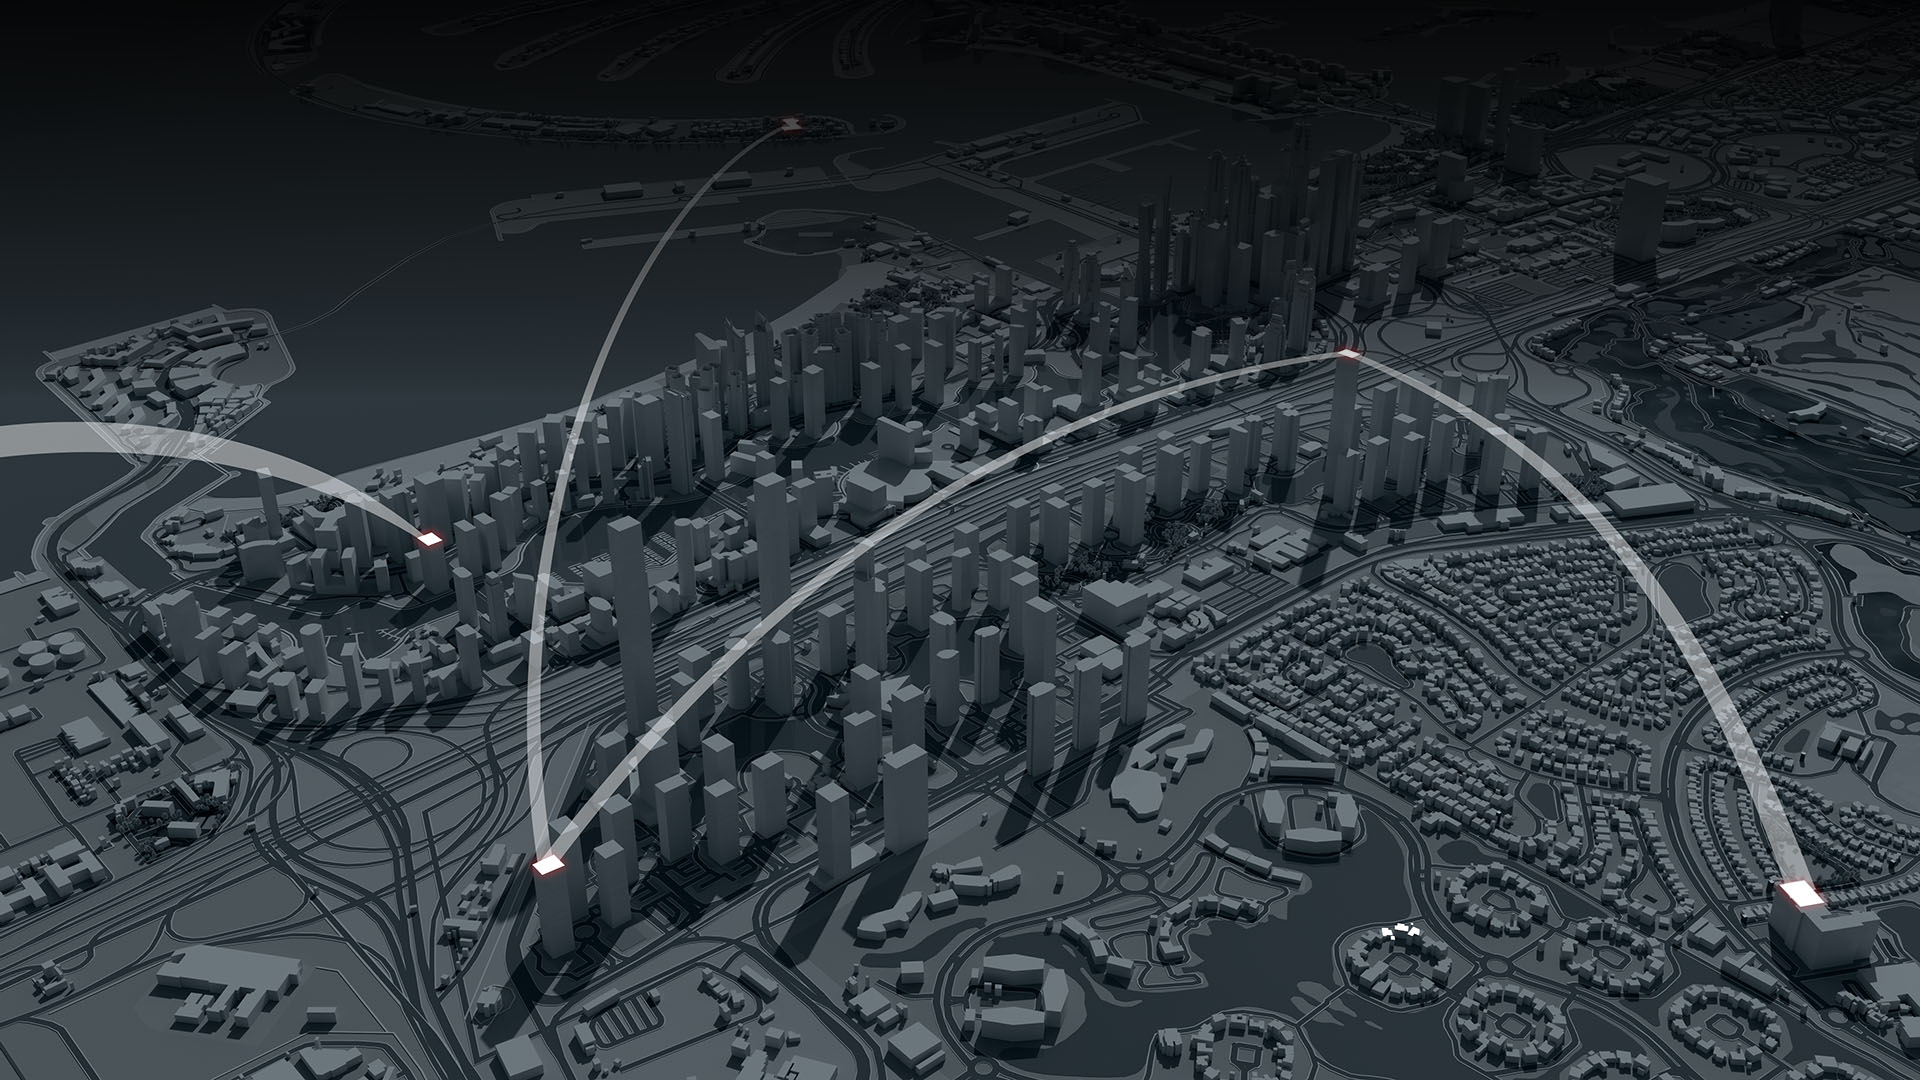
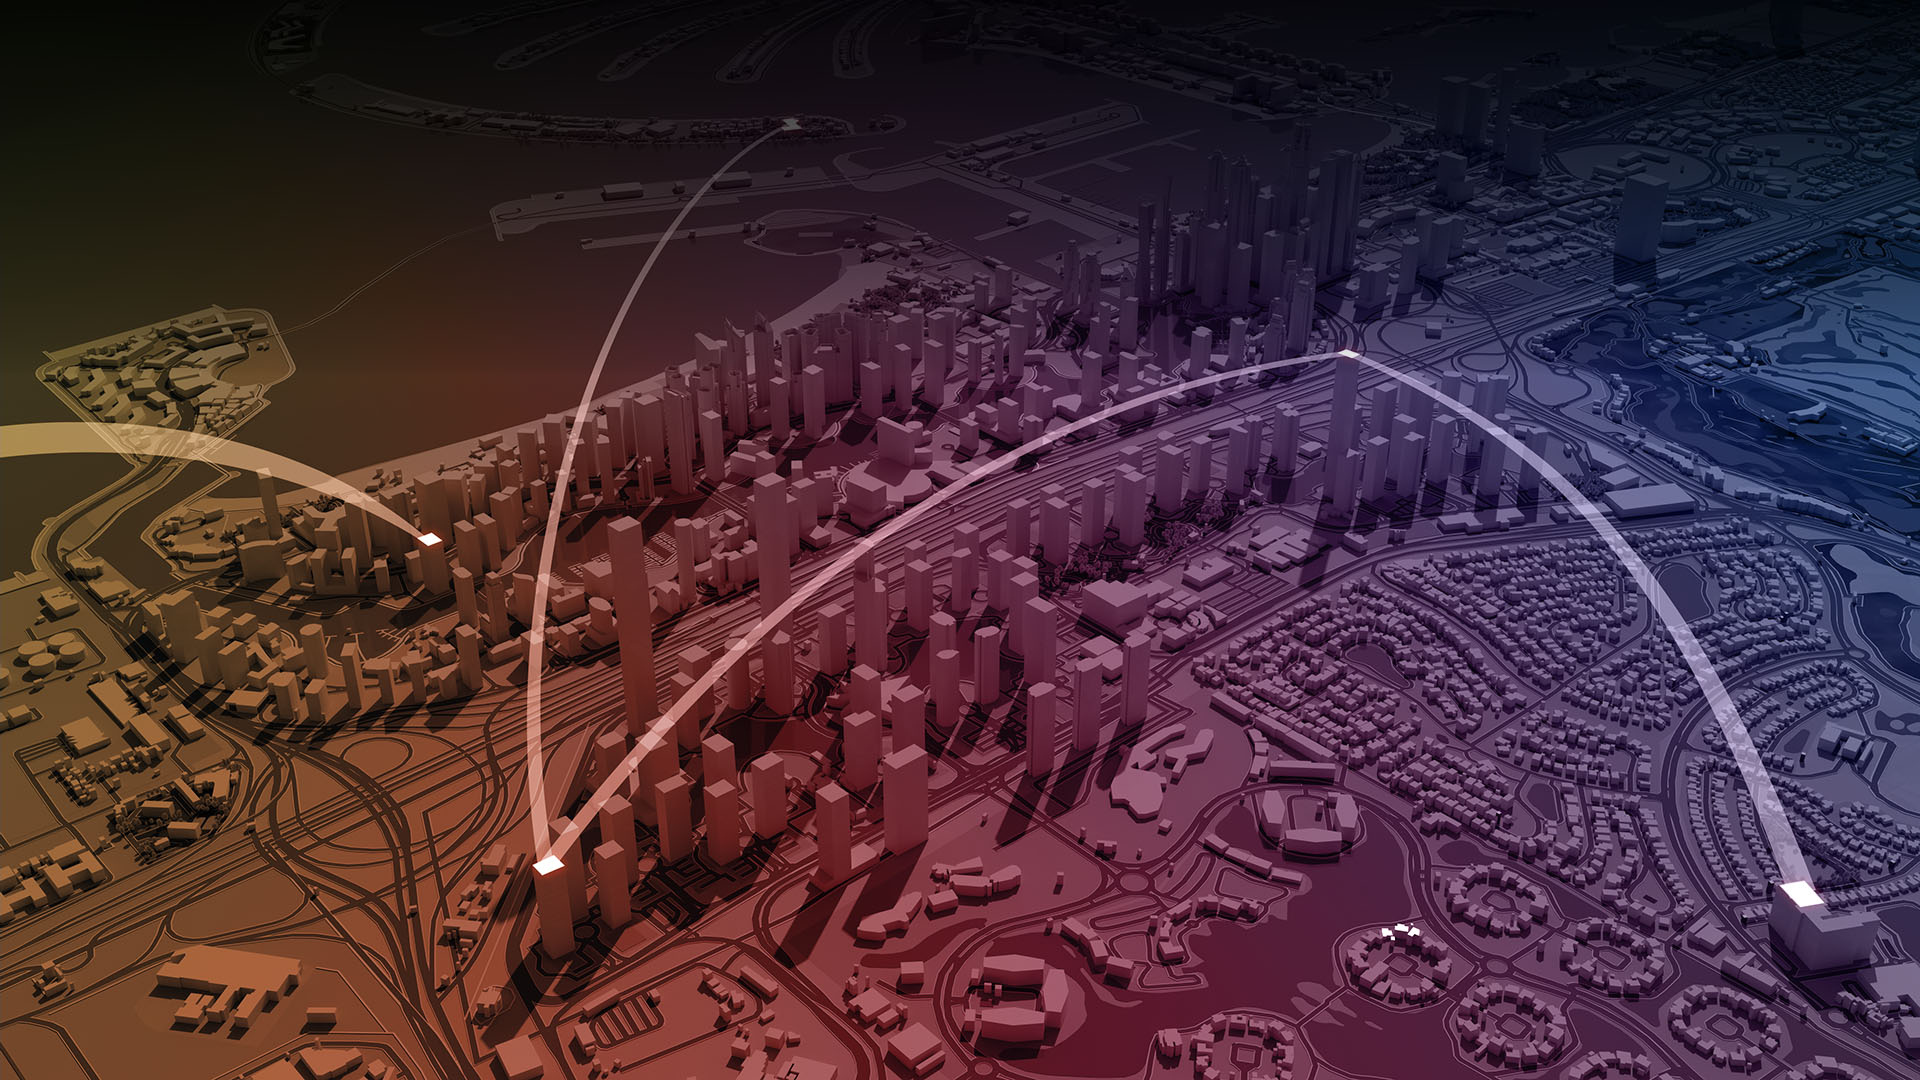
Flight Control Technology Slide Added

diff --git a/app/components/technology/control-hero.tsx b/app/components/technology/control-hero.tsx
@@ -1,22 +1,66 @@
 "use client";
 import { Container } from "react-bootstrap";
+import AIIcon from "./ai-icon";
+import ControlIcon from "./control-icon";
 
 export default function ControlTechnologyHero() {
   return (
     <Container
       id="control"
-      className="safety-section d-flex flex-column justify-content-center align-items-center text-center text-white p-4 pb-5 bg-secondary"
+      className="control-section d-flex flex-column justify-content-center align-items-center text-center text-white p-4 pb-5 bg-secondary"
       fluid
     >
       <div className="p-5 section-header text-center">
         <div className="lead">CLEAR</div>
         <h2>FLIGHT CONTROL</h2>
         <p className="pb-3">
-          The Artificial intelligence dramatically reduces the chance of
-          emergency situations, but the safety is most important for us.
+          We are developing a complete flight management system that is designed
+          specifically for automated aircraft and takes into account their
+          peculiarities. We ensure integration of drones into the city&apos;s
+          transportation life.
         </p>
       </div>
-      <Container className="ai-container pb-5 d-flex flex-row gap-3 justify-content-center align-items-center flex-wrap"></Container>
+      <Container className="ai-container pb-5 d-flex flex-row gap-3 justify-content-center align-items-center flex-wrap">
+        <ControlIcon icon="file-bar-graph">
+          <strong>AIRTRAIL</strong>
+          <br />
+          Universal protocol for realtime information exchange from aboard
+          automated aircrafts.
+        </ControlIcon>
+
+        <ControlIcon icon="radar">
+          <strong>REALTIME MONITORING</strong>
+          <br />
+          Real-time flight tracking of all aircraft, taking into account route
+          and model parameters.
+        </ControlIcon>
+
+        <ControlIcon icon="sign-turn-right">
+          <strong>SMART ROUTE PLANNING</strong>
+          <br />
+          Automatic terrain-aware planning of non-overlapping routes.
+        </ControlIcon>
+
+        <ControlIcon icon="database-check">
+          <strong>FULL TELEMENTRY STORAGE</strong>
+          <br />
+          Storage of all flight telemetry and marshrouts for later analysis.
+        </ControlIcon>
+
+        <ControlIcon icon="phone">
+          <strong>CLIENT APPS</strong>
+          <br />
+          Client applications for aero taxi and drone-assisted delivery in the
+          city and coyntryside.
+        </ControlIcon>
+
+        <ControlIcon icon="megaphone">
+          <strong>EMERGENCY PREDICTION</strong>
+          <br />
+          Predicting and solving emergency situations in real time, to maximize
+          safety.
+        </ControlIcon>
+      </Container>
     </Container>
   );
 }

diff --git a/app/globals.scss b/app/globals.scss
@@ -630,6 +630,15 @@ h6, .h6, h5, .h5, h4, .h4, h3, .h3, h2, .h2, h1, .h1 {
 	}
 }
 
+.safety-section {
+	width: 100%;
+	min-height: 40rem;
+	background-image: url("../public/images/technology/safety.jpg");
+	background-position: 50% 0;
+	background-repeat: no-repeat;
+	background-size: cover;
+}
+
 .safety-item {
 	max-width: 25rem;
 	min-width: 25rem;
@@ -646,8 +655,9 @@ h6, .h6, h5, .h5, h4, .h4, h3, .h3, h2, .h2, h1, .h1 {
 
 	.title {
 		padding: 1rem;
-		background-color: rgba($color: #000000, $alpha: 0.4);
+		background-color: rgba($color: #ffffff, $alpha: 0.4);
 		min-height:7rem;
+		color: black;
 
 		.heading {
 			font-weight: bold;
@@ -809,7 +819,6 @@ h6, .h6, h5, .h5, h4, .h4, h3, .h3, h2, .h2, h1, .h1 {
 
 .blockchain-section {
 	width: 100%;
-	min-height: 40rem;
 	background-image: url("../public/images/technology/blockchain.jpg");
 	background-position: 50% 0;
 	background-repeat: no-repeat;
@@ -891,4 +900,42 @@ h6, .h6, h5, .h5, h4, .h4, h3, .h3, h2, .h2, h1, .h1 {
 .imgBox img {
     max-width: 100px;
     scale: 0.8;
+}
+
+.control-section {
+	width: 100%;
+	min-height: 40rem;
+	background-image: url("../public/images/technology/control.jpg");
+	background-position: 50% 0;
+	background-repeat: no-repeat;
+	background-size: cover;
+}
+
+.control-icon-item {
+	display: flex;
+	flex-direction: row;
+	align-items: center;
+	padding: 1rem;
+	border-radius: var(--bs-border-radius-lg);
+	max-width: 25rem;
+	min-width: 25rem;
+	min-height: 7rem;
+	background-color: rgba($color: #ffffff, $alpha: 0.2);
+
+	.icon {
+		font-size: 2.5rem;
+		padding-right: 1rem;
+		justify-content: center;
+		align-content: center;
+		flex-direction: column;
+	}
+
+	.body {
+		display: block;
+		text-overflow: ellipsis;
+		word-wrap: break-word;
+		overflow: hidden;
+
+		text-align: left;
+	}
 }

diff --git a/app/components/technology/control-icon.tsx b/app/components/technology/control-icon.tsx
@@ -1,0 +1,17 @@
+"use client";
+export default function ControlIcon({
+  children,
+  className,
+  icon,
+}: Readonly<{
+  children?: React.ReactNode;
+  className?: string;
+  icon: string;
+}>) {
+  return (
+    <div className={`control-icon-item ${className ? className : ""}`}>
+      <div className={`icon bi-${icon}`}></div>
+      <div className="body">{children}</div>
+    </div>
+  );
+}

diff --git a/app/components/technology/technology-hero.tsx b/app/components/technology/technology-hero.tsx
@@ -71,19 +71,19 @@ export default function TechnologyHero() {
                 >
                   Safety
                 </Link>
-                {/* <Link
-                  className="action-button btn btn-outline-primary btn-lg"
-                  href="#control"
-                  scroll={true}
-                >
-                  Flight Control
-                </Link> */}
                 <Link
                   className="action-button btn btn-outline-primary btn-lg"
                   href="#blockchain"
                   scroll={true}
                 >
                   Blockchain
+                </Link>
+                <Link
+                  className="action-button btn btn-outline-primary btn-lg"
+                  href="#control"
+                  scroll={true}
+                >
+                  Flight Control
                 </Link>
                 {/* <Link
                   className="action-button btn btn-outline-primary btn-lg"

diff --git a/app/technology/page.tsx b/app/technology/page.tsx
@@ -20,9 +20,9 @@ const TechnologyPage: NextPage = () => {
         <TechnologyHero />
         <AITechnologyHero />
         <SafetyTechnologyHero />
+        <ControlTechnologyHero />
         <BlockchainTechnologyHero />
-        {/* <ControlTechnologyHero />
-        <PortsTechnologyHero /> */}
+        {/* <PortsTechnologyHero /> */}
         <AppsTechnologyHero />
         <HomeSkyscoutSection />
         <Footer />